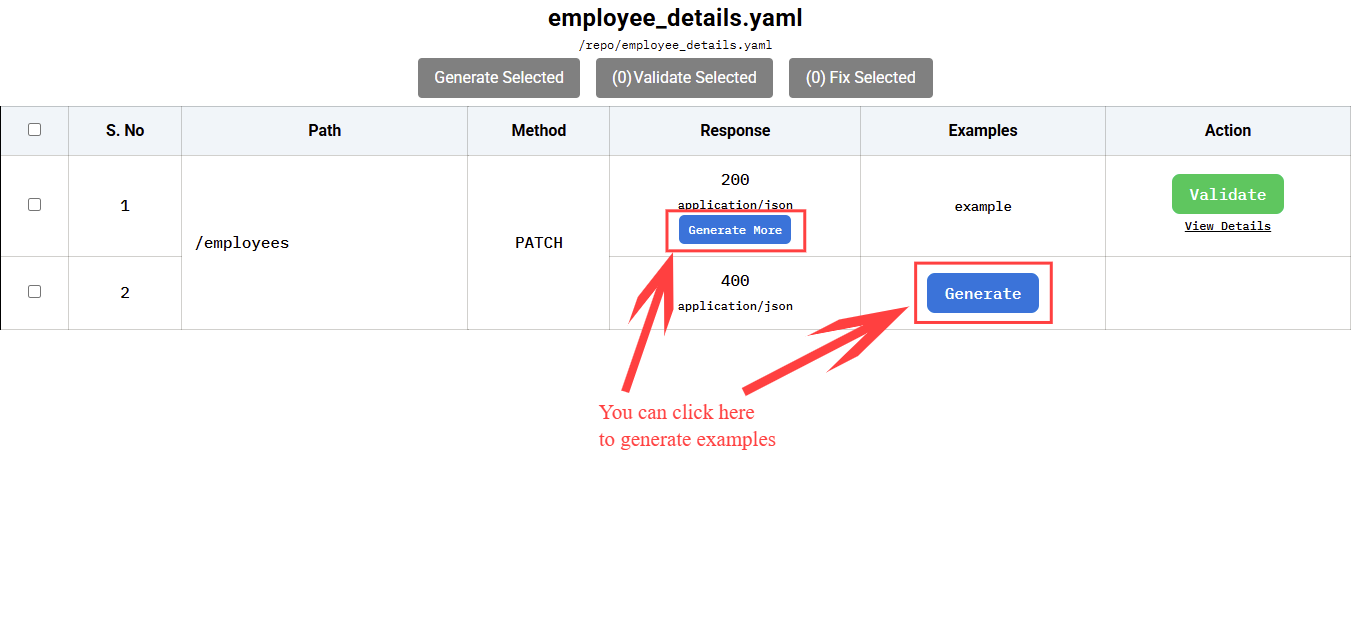
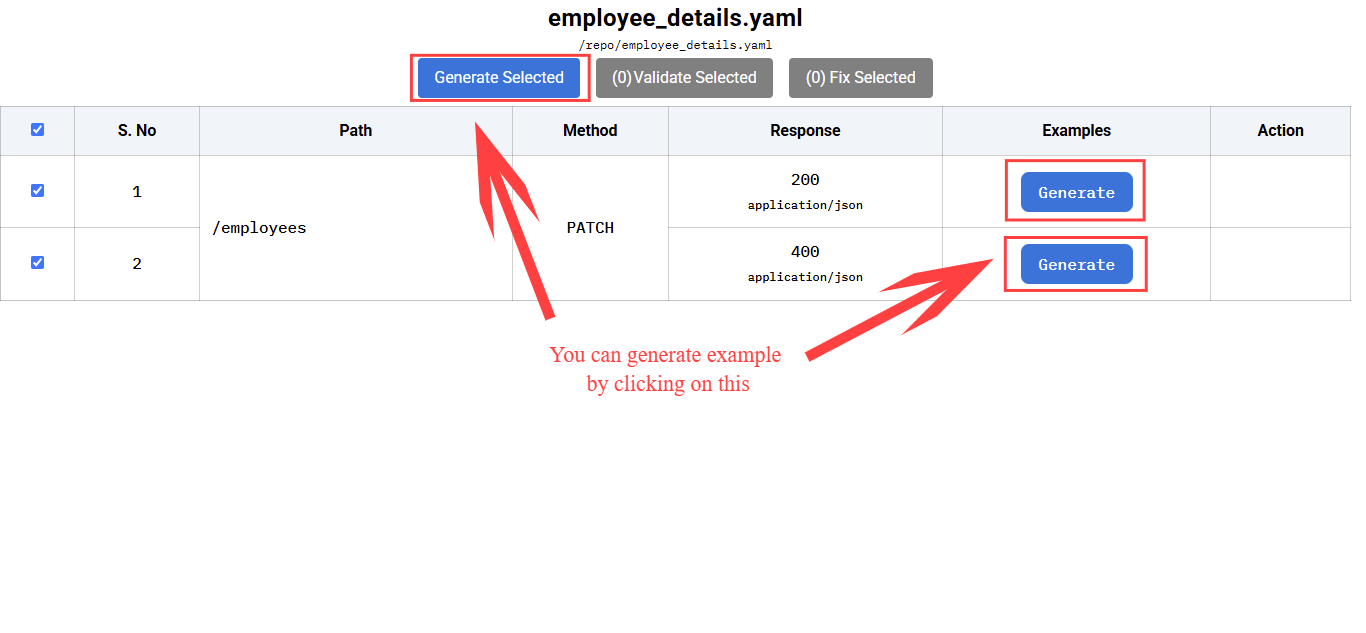
Added GUI screenshots in external example

diff --git a/documentation/external_examples.md b/documentation/external_examples.md
@@ -9,7 +9,7 @@ nav_order: 7
 
 - [External Examples](#external-examples)
   - [Introduction](#introduction)
-  - [Creating and Validating Examples](#creating-and-validating-examples)
+  - [Creating, Validating and Fixing Examples](#creating-validating-and-fixing-examples)
     - [Pre-requisites](#pre-requisites)
     - [Using GUI - Paid Feature](#using-gui---paid-feature)
       -  [Fix the Example](#fix-the-example)
@@ -26,20 +26,13 @@ nav_order: 7
 
 ## Introduction
 
-It may not always be possible to add examples inline in the OpenAPI specifications. And sometimes certain examples may not belong in the API specification. In such cases, we add examples outside the spec in the form of JSON files. But how do we ensure that these examples are valid and as per the specification? The answer is Specmatic's example validation capability.
+It may not always be possible to add examples inline in the OpenAPI specifications. And sometimes certain examples may not belong in the API specification. In such cases, we add examples outside the spec in the form of JSON files.
 
-With Specmatic's powerful validation capability you can validate these examples easily either locally or in CI pipelines. Whether you have a single specification or multiple specifications across different directories, Specmatic makes it easy to ensure your examples stay in sync with your API definitions.
+## Creating, Validating and Fixing Examples
 
-## Creating and Validating Examples
+Create an API specification file named `employee_details.yaml` using the content below,
 
-Let's walk through a complete example to see how example validation works in practice.
-
-### Pre-requisites
-
-- Create a directory named `specmatic` in your home directory.
-- Make sure you have installed Specmatic. Check the [Download](../download.html) page for all available options for installing Specmatic.
-- Create the API specification file named `employee_details.yaml` (Optional)
-
+We will use this file as a reference for creating, validating and fixing examples.
 ```yaml
 openapi: 3.0.0
 info:
@@ -112,7 +105,48 @@ components:
         designation:
           type: string
 ```
-- Create the example in `employee_details_examples/example.json` (Optional)
+
+## Interactive Examples GUI
+
+To start the GUI execute below command,
+{% tabs examples-gui %}
+{% tab examples-gui docker %}
+```shell
+docker run --rm -v "$(pwd):/repo" -p "9001:9001" znsio/specmatic-openapi examples interactive --contract-file /repo/employee_details.yaml
+```
+{% endtab %}
+{% tab examples-gui java %}
+```shell
+java -jar specmatic-openapi.jar examples interactive --contract-file /repo/employee_details.yaml
+```
+{% endtab %}
+{% endtabs %}
+
+You can then click on the link in the console, or by visiting http://localhost:9001/_specmatic/examples
+
+### Generating and Updating Examples
+
+> ![Generate](../images/gui-generate.png)
+
+The generated files will be saved along side your specification in a directory with `_examples` suffix. In this case it will be `employee_details_examples` directory.
+
+> ![More Details](../images/gui-more-details.png)
+
+> ![Update](../images/gui-update.png)
+
+### Validating Example
+
+> ![Validate](../images/gui-validate.png)
+
+### Fixing Example
+
+> ![Fix](../images/gui-fix.png)
+
+> ![After Fix](../images/gui-after-fix.png)
+
+## Creating Examples Manually
+
+Create the example in `employee_details_examples/example.json`
 
 ```json
 {
@@ -120,7 +154,10 @@ components:
         "method": "PATCH",
         "path": "/employees",
         "body": {
-            "employeeCode": "pqrxyz"
+            "employeeCode": "pqrxyz",
+            "name": "Jamie",
+            "department": "IT",
+            "designation": "Manager"
         }
     },
     "http-response": {
@@ -138,45 +175,11 @@ components:
 
 By default, Specmatic looks for examples in a directory named `{specification-name}_examples` in the same location as your specification file. For instance, if your spec file is named `employee_details.yaml`, Specmatic will look for examples in the `employee_details_examples` directory.
 
-## Using GUI - Paid Feature
+For complete example format, please refer to [Example Format](#example-format).
 
-You can easily generate, validate and fix examples using Specmatic GUI. To start the GUI execute below command,
-{% tabs examples-gui %}
-{% tab examples-gui docker %}
-```shell
-docker run --rm -v "$(pwd):/repo" -p "9001:9001" znsio/specmatic-openapi examples interactive --contract-file /repo/employee_details.yaml
-```
-{% endtab %}
-{% tab examples-gui java %}
-```shell
-java -jar specmatic-openapi.jar examples interactive --contract-file /repo/employee_details.yaml
-```
-{% endtab %}
-{% endtabs %}
+## Using CLI to Validate Examples
 
-You can then click on the link provided by the command in the console, by default it will be http://localhost:9001/_specmatic/examples
-
-### Validate the Example
-
-In this section, we will see how you can validate the example,
-
-> ![Validate](../images/gui-validate.jpeg)
-
-### Fix the Example
-
-In this section, we will see how you can fix the example,
-
-> ![Fix](../images/gui-fix.png)
-
-### Generate the Example
-
-In this section, we will see how you can generate the example,
-
-> ![Generate](../images/gui-generate.png)
-
-## Using CLI
-
-### Validate the Example
+While you have done the validation in GUI, You can run it in a non-interactive manner for e.g. CI Pipelines, [PR Pre-Merge Checks]() etc. Specmatic will exit with a non-zero exit-code in case of validation failure, and `0` indicating successful validation.
 
 {% tabs examples-validate %}
 {% tab examples-validate docker %}
@@ -189,16 +192,7 @@ docker run -v "$(pwd)/:/specs" znsio/specmatic examples validate --spec-file "/s
 java -jar specmatic.jar examples validate --spec-file employee_details.yaml
 ```
 {% endtab %}
-{% tab examples-validate npm %}
-```shell
-npx specmatic examples validate --spec-file employee_details.yaml
-```
-{% endtab %}
 {% endtabs %}
-
-If you're using the [given example](#pre-requisites), You'll notice the validation fails because the request is missing required fields (`name`, `department`, and `designation`). The error message will guide you to fix these issues. Fix the example by adding the required fields and run the validation again and you’ll see it succeed!
-
-**Note:** You can also integrate it with your CI and it will exit with a exit-code. An exit-code of `1` indicates validation failure, while `0` indicates success.
 
 ## Example Format
 
@@ -380,11 +374,6 @@ docker run znsio/specmatic examples validate --help
 {% tab examples-validate java %}
 ```shell
 java -jar specmatic.jar examples validate --help
-```
-{% endtab %}
-{% tab examples-validate npm %}
-```shell
-npx specmatic examples validate --help
 ```
 {% endtab %}
 {% endtabs %}
